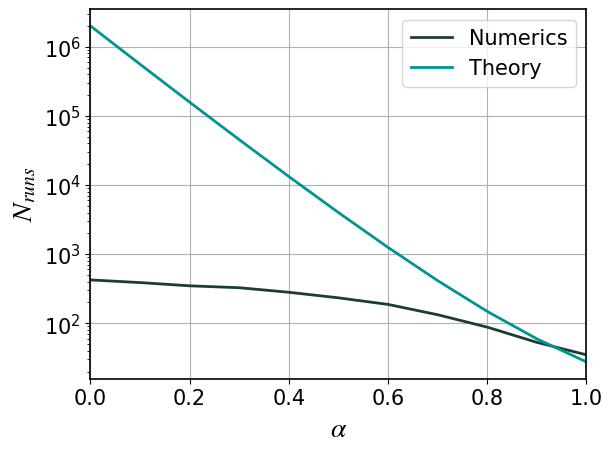
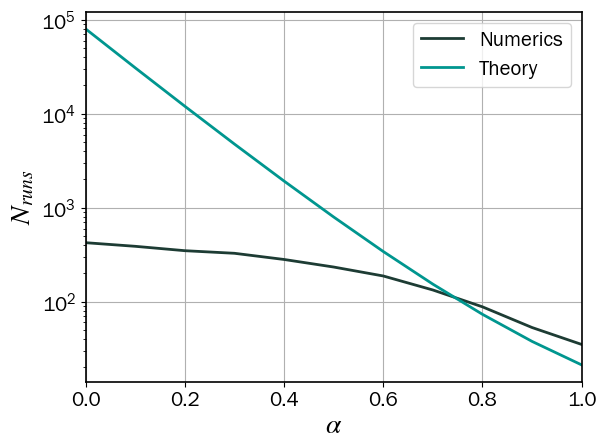
alpha vs exact plots made

Changed region(s): [[0.0, 0.0, 1.0, 0.9062], [0.5347, 0.9375, 0.5644, 0.9688]]

diff --git a/alpha-VQE/alpha_vqe_test.py b/alpha-VQE/alpha_vqe_test.py
@@ -3,29 +3,63 @@ from alpha_vqe import Alpha_VQE
 import numpy as np
 import random
 from numpy import pi
-from progress.bar import FillingCirclesBar
+from progress.bar import FillingCirclesBar, FillingSquaresBar
 import os
 import pickle
 
 alpha_values = np.linspace(0, 1, 11)
+sample_sizes = [100, 250, 500, 750, 1000]
 mRange = 500
 
-bar = FillingCirclesBar("Running simulation", max = mRange*len(alpha_values), suffix = '%(percent).2f%% [%(elapsed_td)s]')
+# bar = FillingCirclesBar("Running simulation", max = mRange*len(alpha_values), suffix = '%(percent).2f%% [%(elapsed_td)s]')
 
-results = []
-for alpha in alpha_values:
-    temp = []
-    for _ in range(mRange):
-        phi = random.uniform(-pi, pi)
-        a = Alpha_VQE(phi=phi, nSamples=100, alpha = alpha, rescaled=1)
-        max_shots = a.get_max_shots()
-        err, run = a.estimate_phase()
-        temp.append([err, run, max_shots])
-        bar.next()
-    results.append(
-        [alpha, np.median(transpose(temp)[0]), np.median(transpose(temp)[1])]
-    )
+# results = []
+# for alpha in alpha_values:
+#     temp = []
+#     for _ in range(mRange):
+#         phi = random.uniform(-pi, pi)
+#         a = Alpha_VQE(phi=phi, nSamples=100, alpha = alpha, rescaled=1)
+#         max_shots = a.get_max_shots()
+#         err, run = a.estimate_phase()
+#         temp.append([err, run, max_shots])
+#         bar.next()
+#     results.append(
+#         [alpha, np.median(transpose(temp)[0]), np.median(transpose(temp)[1])]
+#     )
+# bar.finish()
+
+# f = open("data_test", "wb")
+# pickle.dump(results, f)
+
+# bar = FillingSquaresBar("Running simulation", max = mRange*len(sample_sizes), suffix = '%(percent).2f%% [%(elapsed_td)s]')
+
+# results = []
+# for ss in sample_sizes:
+#     temp = []
+#     for _ in range(mRange):
+#         phi = random.uniform(-pi, pi)
+#         a = Alpha_VQE(phi=phi, nSamples=ss, alpha = 0.5, rescaled=1)
+#         max_shots = a.get_max_shots()
+#         err, run = a.estimate_phase()
+#         temp.append([err, run])
+#         bar.next()
+#     results.append(
+#         [ss, np.median(transpose(temp)[0]), np.median(transpose(temp)[1])]
+#     )
+# bar.finish()
+
+# f = open("alpha_vqe_sample_test", "wb")
+# pickle.dump(results, f)
+
+bar = FillingSquaresBar("Running exact simulation", max = mRange, suffix = '%(percent).2f%% [%(elapsed_td)s]')
+exact_results = []
+for _ in range(mRange):
+    phi = random.uniform(-pi, pi)
+    a = Alpha_VQE(phi=phi, nSamples=1, alpha = 0.5, exact = 1)
+    err, run = a.estimate_phase()
+    exact_results.append([err, run])
+    bar.next()
 bar.finish()
-
-f = open("data_test", "wb")
-pickle.dump(results, f)
+print(exact_results)
+g = open("alpha_vqe_exact_update", "wb")
+pickle.dump(exact_results, g)

diff --git a/alpha-VQE/alpha_vqe.py b/alpha-VQE/alpha_vqe.py
@@ -1,6 +1,7 @@
 import random
 import numpy as np
-from numpy import pi, exp, cos, log
+from numpy import pi
+from math import cos, sin, log, exp
 import warnings
 import pickle
 
@@ -46,7 +47,7 @@ class Alpha_VQE():
     VALUEERROR for alpha <0 or >1
     """
 
-    def __init__(self, phi, nSamples, accuracy=10**-3, alpha=0, sigma=pi/4, max_shots=10**4, rescaled=0):
+    def __init__(self, phi, nSamples, accuracy=5*10**-3, alpha=0, sigma=pi/4, max_shots=10**4, rescaled=0, exact = 0):
         self.phi = phi
         self.nSamples = nSamples
         self.accuracy = accuracy
@@ -54,6 +55,7 @@ class Alpha_VQE():
         self.sigma = sigma
         self.max_shots = max_shots
         self.rescaled = rescaled
+        self.exact = exact
 
         if self.rescaled not in [0, 1]:
             raise ValueError("Rescaled keyword for rejection sampling" +
@@ -131,6 +133,32 @@ class Alpha_VQE():
 
         return(mu, sigma)
 
+    def update_exact(self,
+                mu, M, theta, measurement_result
+                ):
+        "Exact update of the prior distribution"
+        d = measurement_result
+
+        Expectation = mu + ((1-2*d) * M * self.sigma**2 * sin(M*(theta - mu))) / \
+            (exp(M**2 * self.sigma**2 / 2) + (1-2*d) * cos(M*(theta-mu)))
+
+        VarNum = 2 * exp(M**2 * self.sigma**2) + (
+            2 * (2*d - 1) * exp(M**2 * self.sigma**2 / 2) *
+            ((M**2 * self.sigma**2) - 2) * cos(M*(theta - mu))
+        ) + (
+            (1 - 2*d)**2 * (1 - (2 * M**2 * self.sigma**2) + cos(2*M*(theta - mu)))
+        )
+
+        VarDenom = 2 * (
+            exp(M**2 * self.sigma**2 / 2) + (1 - 2*d) * cos(M*(theta - mu))
+        )**2
+
+        Variance = self.sigma**2 * (VarNum / VarDenom)
+
+        Std = np.sqrt(Variance)
+
+        return(Expectation, Std)
+
     def estimate_phase(self):
         mu = random.uniform(-pi, pi)
 
@@ -149,12 +177,16 @@ class Alpha_VQE():
             else:
                 measurement_result = 1
 
-            if self.rescaled == 0:
-                mu, sigma = self.update_prior(
-                    M, theta, measurement_result, prior_samples)
+            if self.exact == 1:
+                mu, sigma = self.update_exact(mu, M, theta, measurement_result)
+            
             else:
-                mu, sigma = self.update_prior_rescaled(
-                    M, theta, measurement_result, prior_samples)
+                if self.rescaled == 0:
+                    mu, sigma = self.update_prior(
+                        M, theta, measurement_result, prior_samples)
+                else:
+                    mu, sigma = self.update_prior_rescaled(
+                        M, theta, measurement_result, prior_samples)
 
             self.sigma = sigma
 

diff --git a/alpha-VQE/plotting.py b/alpha-VQE/plotting.py
@@ -1,12 +1,13 @@
 from matplotlib import lines
 import matplotlib.pyplot as plt
+import numpy as np
 import pickle
 import matplotlib
 from alpha_vqe import Alpha_VQE
 
 # Font choices to match with LaTeX as close as possible
 matplotlib.rcParams['mathtext.fontset'] = 'stix'
-matplotlib.rcParams['font.family'] = 'Franklin Gothic Book Regular'
+matplotlib.rcParams['font.family'] = 'Franklin Gothic Book'
 matplotlib.rcParams['axes.linewidth'] = 1.2
 colours=['#1d3c34','#00968f','#3ccbda', '#ff7500','#dc4405']
 
@@ -58,4 +59,46 @@ plt.xlim(0, 1)
 
 plt.grid(True)
 plt.savefig('alpha_vqe_vs_runs.png', bbox_inches='tight')
+plt.clf()
+
+
+inp = open("alpha_vqe_sample_test", "rb")
+sample_tests = pickle.load(inp)
+
+exact_inp = open("alpha_vqe_exact_update", "rb")
+_exact = pickle.load(exact_inp)
+
+sample_sizes, errs, runs = transpose(sample_tests)
+
+exact_err, exact_run = np.median(transpose(_exact)[0]), np.median(transpose(_exact)[1])
+
+
+plt.plot(sample_sizes, errs, linewidth = 2, color = colours[0], label = 'Numerics')
+plt.plot(sample_sizes, [exact_err]*len(errs), '-', linewidth = 1.5, color = 'black', label = 'Exact')
+plt.xticks(size = tick_size)
+plt.yticks(size = tick_size)
+
+
+plt.ylabel(r'$|\phi - \mu|^2$', fontsize = label_size)
+plt.xlabel(r'Sample Size', fontsize = label_size)
+plt.legend(fontsize = legend_size)
+# plt.xlim(0, 1)
+
+plt.grid(True)
+plt.savefig('alpha_vqe_sample_test_errors.png', bbox_inches='tight')
+plt.clf()
+
+plt.plot(sample_sizes, runs, linewidth = 2, color = colours[0], label = 'Numerics')
+plt.plot(sample_sizes, [exact_run]*len(runs), '-', linewidth = 1.5, color = 'black', label = 'Exact')
+plt.xticks(size = tick_size)
+plt.yticks(size = tick_size)
+
+
+plt.ylabel(r'$N_R$', fontsize = label_size)
+plt.xlabel(r'Sample Size', fontsize = label_size)
+plt.legend(fontsize = legend_size)
+# plt.xlim(0, 1)
+
+plt.grid(True)
+plt.savefig('alpha_vqe_sample_test_runs.png', bbox_inches='tight')
 plt.clf()
